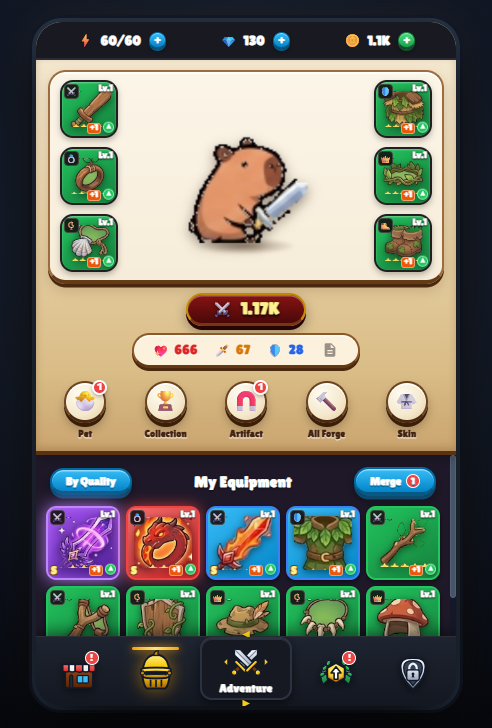
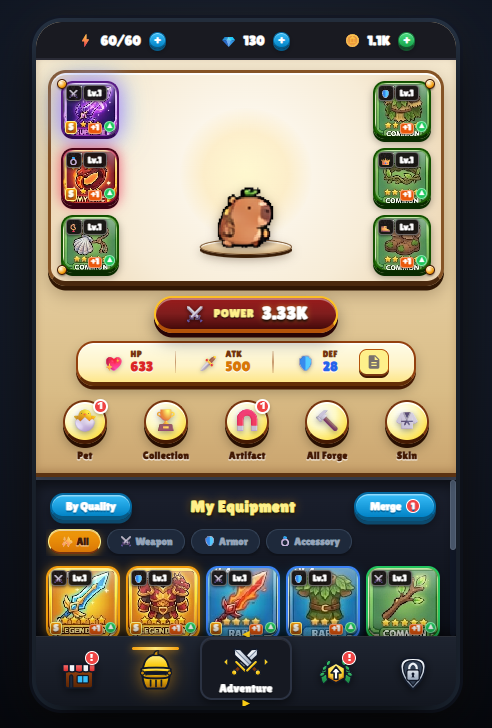
feat(ui): enhance gear card resolution and clarity, add radiant shimmering wave effect to mythic and supreme weapons

diff --git a/capybara_go_game/styles.css b/capybara_go_game/styles.css
@@ -3758,11 +3758,18 @@ body {
 }
 
 .slot-item-img {
-  width: 78%;
-  height: 78%;
-  object-fit: contain;
-  filter: drop-shadow(0 2.5px 4px rgba(0, 0, 0, 0.6));
-  z-index: 3;
+  position: absolute;
+  top: 0;
+  left: 0;
+  width: 100%;
+  height: 100%;
+  object-fit: cover;
+  border-radius: 14px;
+  image-rendering: -webkit-optimize-contrast;
+  image-rendering: crisp-edges;
+  filter: drop-shadow(0 2px 4px rgba(0, 0, 0, 0.45));
+  z-index: 1;
+  display: block;
 }
 
 .slot-ghost-icon {
@@ -3776,51 +3783,44 @@ body {
 .slot-badge-type,
 .item-slot-mini-badge {
   position: absolute;
-  top: 2px;
-  left: 2px;
-  width: 15px;
-  height: 15px;
-  background: rgba(18, 14, 14, 0.88);
-  border: 1px solid rgba(255, 255, 255, 0.25);
+  top: 2.5px;
+  left: 2.5px;
+  width: 16px;
+  height: 16px;
+  background: rgba(18, 14, 14, 0.92);
+  border: 1px solid rgba(255, 255, 255, 0.35);
   border-radius: 4px;
   display: flex;
   align-items: center;
   justify-content: center;
   font-size: 8.5px;
   color: #fff;
-  z-index: 4;
+  z-index: 5;
+  box-shadow: 0 1px 3px rgba(0, 0, 0, 0.6);
 }
 
 .slot-item-lvl,
 .item-lvl-badge {
   position: absolute;
-  top: 2px;
-  right: 3px;
+  top: 2.5px;
+  left: 20px;
   font-family: 'Lilita One', 'Fredoka', cursive;
-  font-size: 9px;
+  font-size: 8.5px;
   font-weight: 900;
   color: #ffffff;
-  text-shadow: 0 1px 2px #000, 0 0 2px #000;
-  line-height: 1;
-  z-index: 4;
+  background: rgba(18, 14, 14, 0.92);
+  border: 1px solid rgba(255, 255, 255, 0.35);
+  border-radius: 4px;
+  padding: 0 4px;
+  line-height: 14px;
+  text-shadow: 0 1px 2px #000;
+  box-shadow: 0 1px 3px rgba(0, 0, 0, 0.6);
+  z-index: 5;
 }
 
 /* Stars Rating Row matching authentic Capybara Go cards */
 .item-stars-row {
-  position: absolute;
-  bottom: 2px;
-  left: 0;
-  right: 0;
-  display: flex;
-  align-items: center;
-  justify-content: center;
-  gap: 1.5px;
-  font-size: 7px;
-  color: #facc15;
-  text-shadow: 0 1px 2px rgba(0, 0, 0, 0.9), 0 0 3px #ca8a04;
-  line-height: 1;
-  pointer-events: none;
-  z-index: 4;
+  display: none; /* Authentic cards already feature native star rows */
 }
 
 .item-s-badge {
@@ -3838,7 +3838,7 @@ body {
   line-height: 1.1;
   text-shadow: 0 1px 1px #451a03;
   box-shadow: 0 1px 3px rgba(0, 0, 0, 0.5);
-  z-index: 4;
+  z-index: 5;
 }
 
 .slot-corner-badges {
@@ -3848,7 +3848,7 @@ body {
   display: flex;
   align-items: center;
   gap: 2px;
-  z-index: 3;
+  z-index: 5;
 }
 
 .item-rank-badge {
@@ -3861,6 +3861,124 @@ body {
   border-radius: 3px;
   padding: 0 2px;
   line-height: 1.1;
+  box-shadow: 0 1px 2px rgba(0, 0, 0, 0.5);
+}
+
+/* ============================================================
+   SHIMMERING WAVE EFFECT (GELOMBANG BERKILAU)
+   Radiant sweeping light waves for Mythic and Supreme weapons
+   ============================================================ */
+.item-shimmer-wave {
+  position: absolute;
+  inset: 0;
+  border-radius: 12px;
+  pointer-events: none;
+  z-index: 3;
+  overflow: hidden;
+}
+
+.shimmer-sweep-light {
+  position: absolute;
+  top: -60%;
+  left: -60%;
+  width: 220%;
+  height: 220%;
+  transform: rotate(32deg);
+  pointer-events: none;
+}
+
+/* MYTHIC WEAPONS: Fiery crimson, ruby & incandescent gold radiance */
+.shimmer-wave-mythic .shimmer-sweep-light {
+  background: linear-gradient(115deg,
+    transparent 20%,
+    rgba(239, 68, 68, 0.15) 32%,
+    rgba(255, 180, 200, 0.75) 44%,
+    rgba(255, 255, 255, 0.98) 50%,
+    rgba(254, 240, 138, 0.9) 55%,
+    rgba(249, 115, 22, 0.4) 65%,
+    transparent 80%
+  );
+  animation: mythicShimmerSweep 2.2s infinite cubic-bezier(0.4, 0, 0.2, 1);
+}
+
+.paperdoll-slot.rarity-mythic.slot-is-weapon,
+.inv-item-card.rarity-mythic.slot-is-weapon {
+  box-shadow: 0 0 16px rgba(239, 68, 68, 0.9), inset 0 0 8px rgba(255, 180, 200, 0.6) !important;
+  animation: mythicWeaponBorderPulse 2s infinite alternate ease-in-out !important;
+}
+
+@keyframes mythicShimmerSweep {
+  0% { transform: translateY(-135%) rotate(32deg); }
+  50%, 100% { transform: translateY(135%) rotate(32deg); }
+}
+
+@keyframes mythicWeaponBorderPulse {
+  0% {
+    box-shadow: 0 0 10px rgba(239, 68, 68, 0.7), inset 0 0 6px rgba(255, 100, 100, 0.4);
+  }
+  100% {
+    box-shadow: 0 0 22px rgba(239, 68, 68, 1), 0 0 35px rgba(251, 146, 60, 0.6), inset 0 0 12px rgba(255, 220, 150, 0.8);
+  }
+}
+
+/* SUPREME WEAPONS: Primordial cosmic violet, starlight cyan & prismatic aurora */
+.shimmer-wave-supreme .shimmer-sweep-light {
+  background: linear-gradient(115deg,
+    transparent 20%,
+    rgba(168, 85, 247, 0.2) 32%,
+    rgba(216, 180, 254, 0.8) 43%,
+    rgba(255, 255, 255, 1) 50%,
+    rgba(56, 189, 248, 0.95) 56%,
+    rgba(168, 85, 247, 0.4) 66%,
+    transparent 80%
+  );
+  animation: supremeCosmicSweep 2s infinite cubic-bezier(0.4, 0, 0.2, 1);
+}
+
+.paperdoll-slot.rarity-supreme.slot-is-weapon,
+.inv-item-card.rarity-supreme.slot-is-weapon {
+  box-shadow: 0 0 20px rgba(192, 132, 252, 0.95), 0 0 30px rgba(56, 189, 248, 0.6), inset 0 0 10px rgba(224, 200, 255, 0.7) !important;
+  animation: supremeWeaponCosmicPulse 2.2s infinite alternate ease-in-out !important;
+}
+
+@keyframes supremeCosmicSweep {
+  0% { transform: translateY(-135%) rotate(32deg); }
+  50%, 100% { transform: translateY(135%) rotate(32deg); }
+}
+
+@keyframes supremeWeaponCosmicPulse {
+  0% {
+    box-shadow: 0 0 12px rgba(192, 132, 252, 0.7), inset 0 0 6px rgba(192, 132, 252, 0.4);
+  }
+  100% {
+    box-shadow: 0 0 26px rgba(216, 180, 254, 1), 0 0 40px rgba(56, 189, 248, 0.75), inset 0 0 14px rgba(255, 255, 255, 0.85);
+  }
+}
+
+/* Pulsing starlight sparkle cross on mythic & supreme weapons */
+.shimmer-sparkle-stars {
+  position: absolute;
+  top: 3px;
+  right: 22px;
+  font-size: 11px;
+  color: #ffffff;
+  text-shadow: 0 0 6px #fff, 0 0 12px currentColor;
+  animation: sparklePulse 1.5s infinite alternate ease-in-out;
+  pointer-events: none;
+  z-index: 4;
+}
+.shimmer-wave-mythic .shimmer-sparkle-stars {
+  color: #fef08a;
+  text-shadow: 0 0 6px #fef08a, 0 0 12px #ef4444;
+}
+.shimmer-wave-supreme .shimmer-sparkle-stars {
+  color: #e0f2fe;
+  text-shadow: 0 0 6px #ffffff, 0 0 14px #38bdf8;
+}
+
+@keyframes sparklePulse {
+  0% { opacity: 0.3; transform: scale(0.7) rotate(0deg); }
+  100% { opacity: 1; transform: scale(1.35) rotate(45deg); }
 }
 
 .item-up-arrow {
@@ -4438,12 +4556,24 @@ body {
   animation: supremeCosmicGlow 2.5s infinite alternate ease-in-out;
 }
 
+.inv-item-card {
+  position: relative;
+  overflow: hidden;
+}
+
 .inv-item-img {
-  width: 78%;
-  height: 78%;
-  object-fit: contain;
-  filter: drop-shadow(0 2.5px 4px rgba(0, 0, 0, 0.6));
-  z-index: 3;
+  position: absolute;
+  top: 0;
+  left: 0;
+  width: 100%;
+  height: 100%;
+  object-fit: cover;
+  border-radius: 12px;
+  image-rendering: -webkit-optimize-contrast;
+  image-rendering: crisp-edges;
+  filter: drop-shadow(0 2px 4px rgba(0, 0, 0, 0.45));
+  z-index: 1;
+  display: block;
 }
 
 /* Empty slot placeholder tile to pad inventory grid */

diff --git a/capybara_go_game/js/ui.js b/capybara_go_game/js/ui.js
@@ -2404,21 +2404,25 @@ class UIManager {
       if (!slotEl) continue;
 
       if (item) {
+        const displayImg = item.cardImg || item.icon;
+        const isWeapon = (slot === "weapon");
+        const isMythicWeapon = isWeapon && (item.rarity === "mythic");
+        const isSupremeWeapon = isWeapon && (item.rarity === "supreme");
+        const shimmerClass = isSupremeWeapon ? "shimmer-wave-supreme" : (isMythicWeapon ? "shimmer-wave-mythic" : (item.rarity === "supreme" ? "shimmer-wave-supreme" : (item.rarity === "mythic" ? "shimmer-wave-mythic" : "")));
+        const shimmerHtml = shimmerClass ? `<div class="item-shimmer-wave ${shimmerClass}"><div class="shimmer-sweep-light"></div><div class="shimmer-sparkle-stars">✦</div></div>` : "";
         const isHighTier = ["rare", "epic", "legendary", "mythic", "supreme"].includes(item.rarity);
         const sBadge = isHighTier ? `<span class="item-s-badge">S</span>` : "";
         const rankBadge = item.refineRank ? `<span class="item-rank-badge">+${item.refineRank}</span>` : `<span class="item-rank-badge">+1</span>`;
         const upArrow = `<span class="item-up-arrow">▲</span>`;
-        const starCount = item.stars || (item.rarity === 'supreme' ? 3 : (item.rarity === 'mythic' ? 4 : (item.refineRank || 1)));
-        const starsHtml = `<div class="item-stars-row">${'★'.repeat(Math.min(5, starCount))}</div>`;
         const gleamHtml = `<div class="item-card-gleam"></div>`;
 
-        slotEl.className = `paperdoll-slot occupied rarity-${item.rarity}`;
+        slotEl.className = `paperdoll-slot occupied rarity-${item.rarity} ${isWeapon ? 'slot-is-weapon' : ''}`;
         slotEl.innerHTML = `
+          <img src="${displayImg}" class="slot-item-img" alt="${item.name}">
           ${gleamHtml}
+          ${shimmerHtml}
           <span class="item-slot-mini-badge">${slotEmojis[slot] || "⚔"}</span>
           <span class="item-lvl-badge">Lv.${item.level}</span>
-          <img src="${item.icon}" class="slot-item-img" alt="${item.name}">
-          ${starsHtml}
           ${sBadge}
           <div class="slot-corner-badges">
             ${rankBadge}
@@ -2472,23 +2476,26 @@ class UIManager {
         } else {
           filteredInv.forEach(it => {
             const itemEl = document.createElement("div");
-            itemEl.className = `inv-item-card rarity-${it.rarity}`;
-
+            const displayImg = it.cardImg || it.icon;
+            const isWeapon = (it.slot === "weapon");
+            const isMythicWeapon = isWeapon && (it.rarity === "mythic");
+            const isSupremeWeapon = isWeapon && (it.rarity === "supreme");
+            const shimmerClass = isSupremeWeapon ? "shimmer-wave-supreme" : (isMythicWeapon ? "shimmer-wave-mythic" : (it.rarity === "supreme" ? "shimmer-wave-supreme" : (it.rarity === "mythic" ? "shimmer-wave-mythic" : "")));
+            const shimmerHtml = shimmerClass ? `<div class="item-shimmer-wave ${shimmerClass}"><div class="shimmer-sweep-light"></div><div class="shimmer-sparkle-stars">✦</div></div>` : "";
             const isHighTier = ["rare", "epic", "legendary", "mythic", "supreme"].includes(it.rarity);
             const sBadge = isHighTier ? `<span class="item-s-badge">S</span>` : "";
             const rankBadge = it.refineRank ? `<span class="item-rank-badge">+${it.refineRank}</span>` : `<span class="item-rank-badge">+1</span>`;
             const slotIcon = slotEmojis[it.slot] || "⚔";
             const upArrow = `<span class="item-up-arrow">▲</span>`;
-            const starCount = it.stars || (it.rarity === 'supreme' ? 3 : (it.rarity === 'mythic' ? 4 : (it.refineRank || 1)));
-            const starsHtml = `<div class="item-stars-row">${'★'.repeat(Math.min(5, starCount))}</div>`;
             const gleamHtml = `<div class="item-card-gleam"></div>`;
 
+            itemEl.className = `inv-item-card rarity-${it.rarity} ${isWeapon ? 'slot-is-weapon' : ''}`;
             itemEl.innerHTML = `
+              <img src="${displayImg}" class="inv-item-img" alt="${it.name}">
               ${gleamHtml}
+              ${shimmerHtml}
               <span class="item-slot-mini-badge">${slotIcon}</span>
               <span class="item-lvl-badge">Lv.${it.level}</span>
-              <img src="${it.icon}" class="inv-item-img" alt="${it.name}">
-              ${starsHtml}
               ${sBadge}
               <div class="slot-corner-badges">
                 ${rankBadge}
